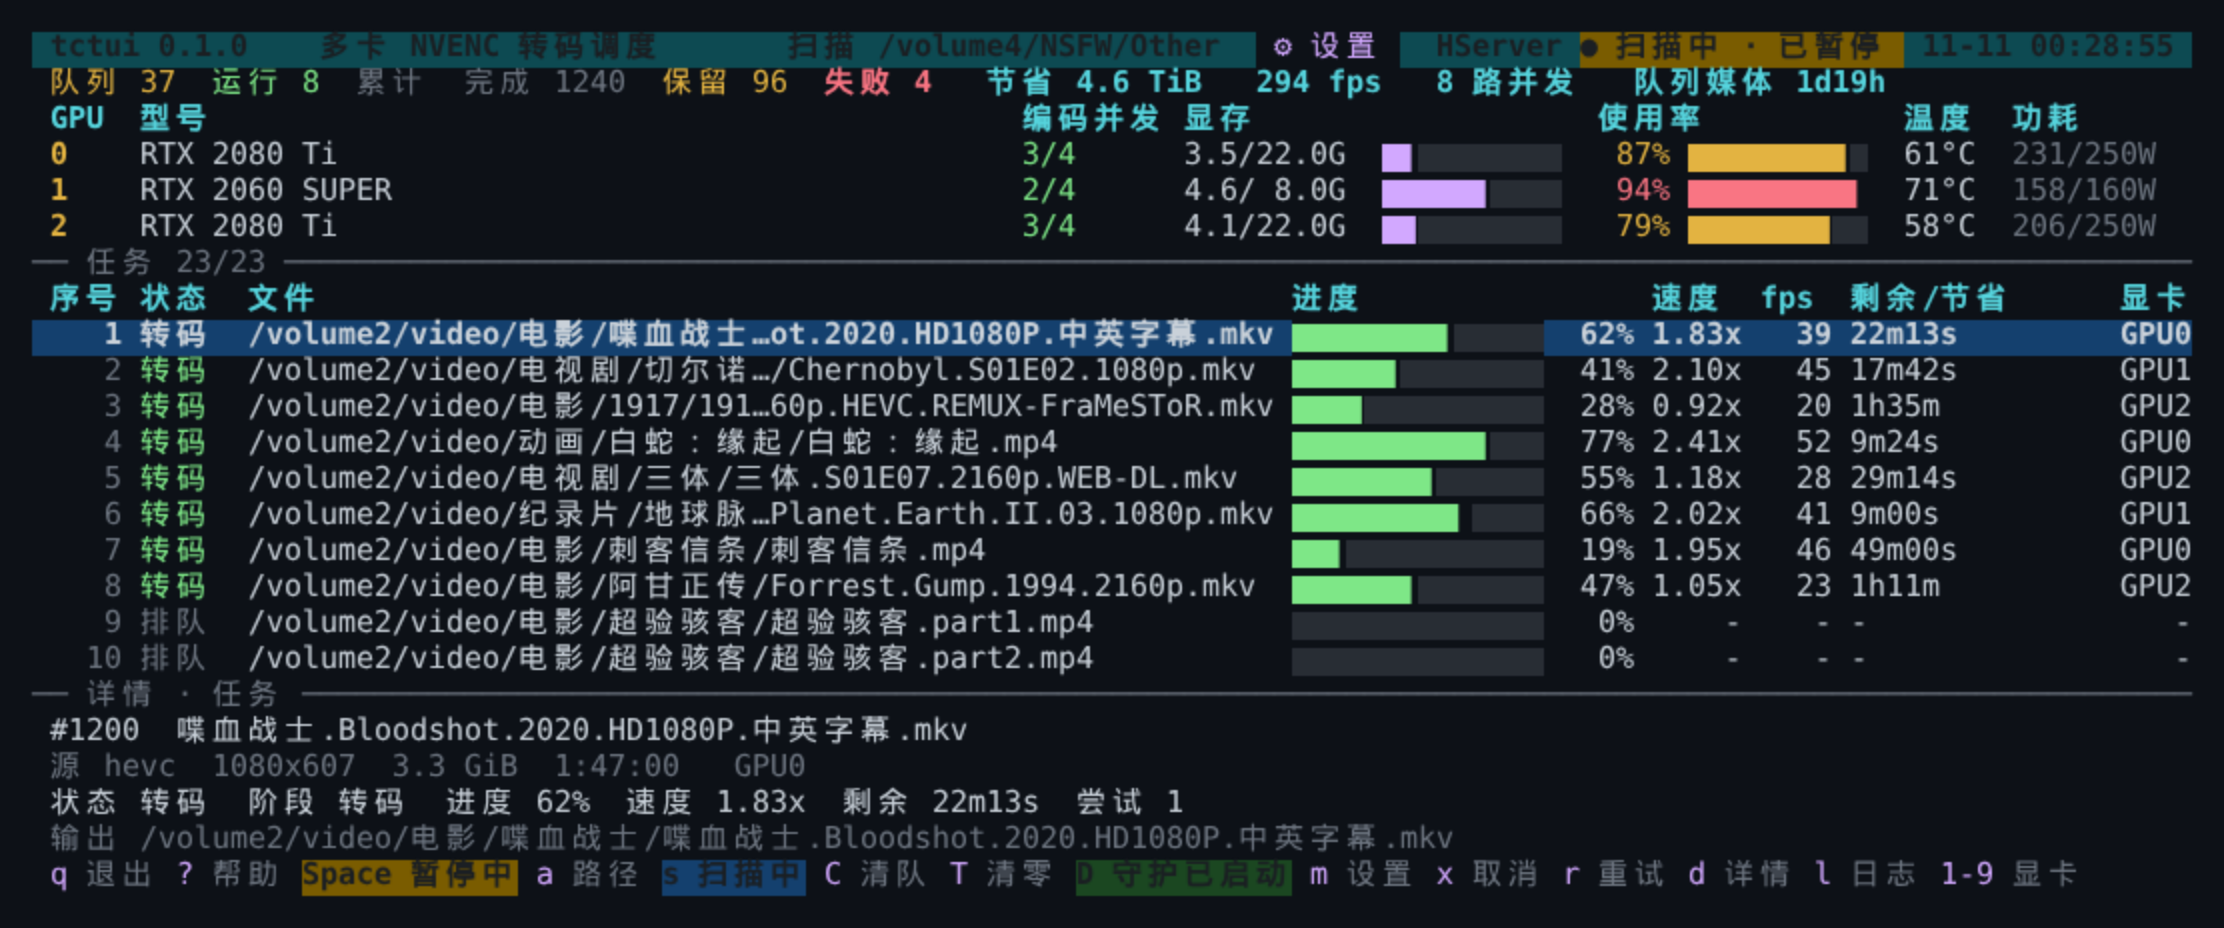
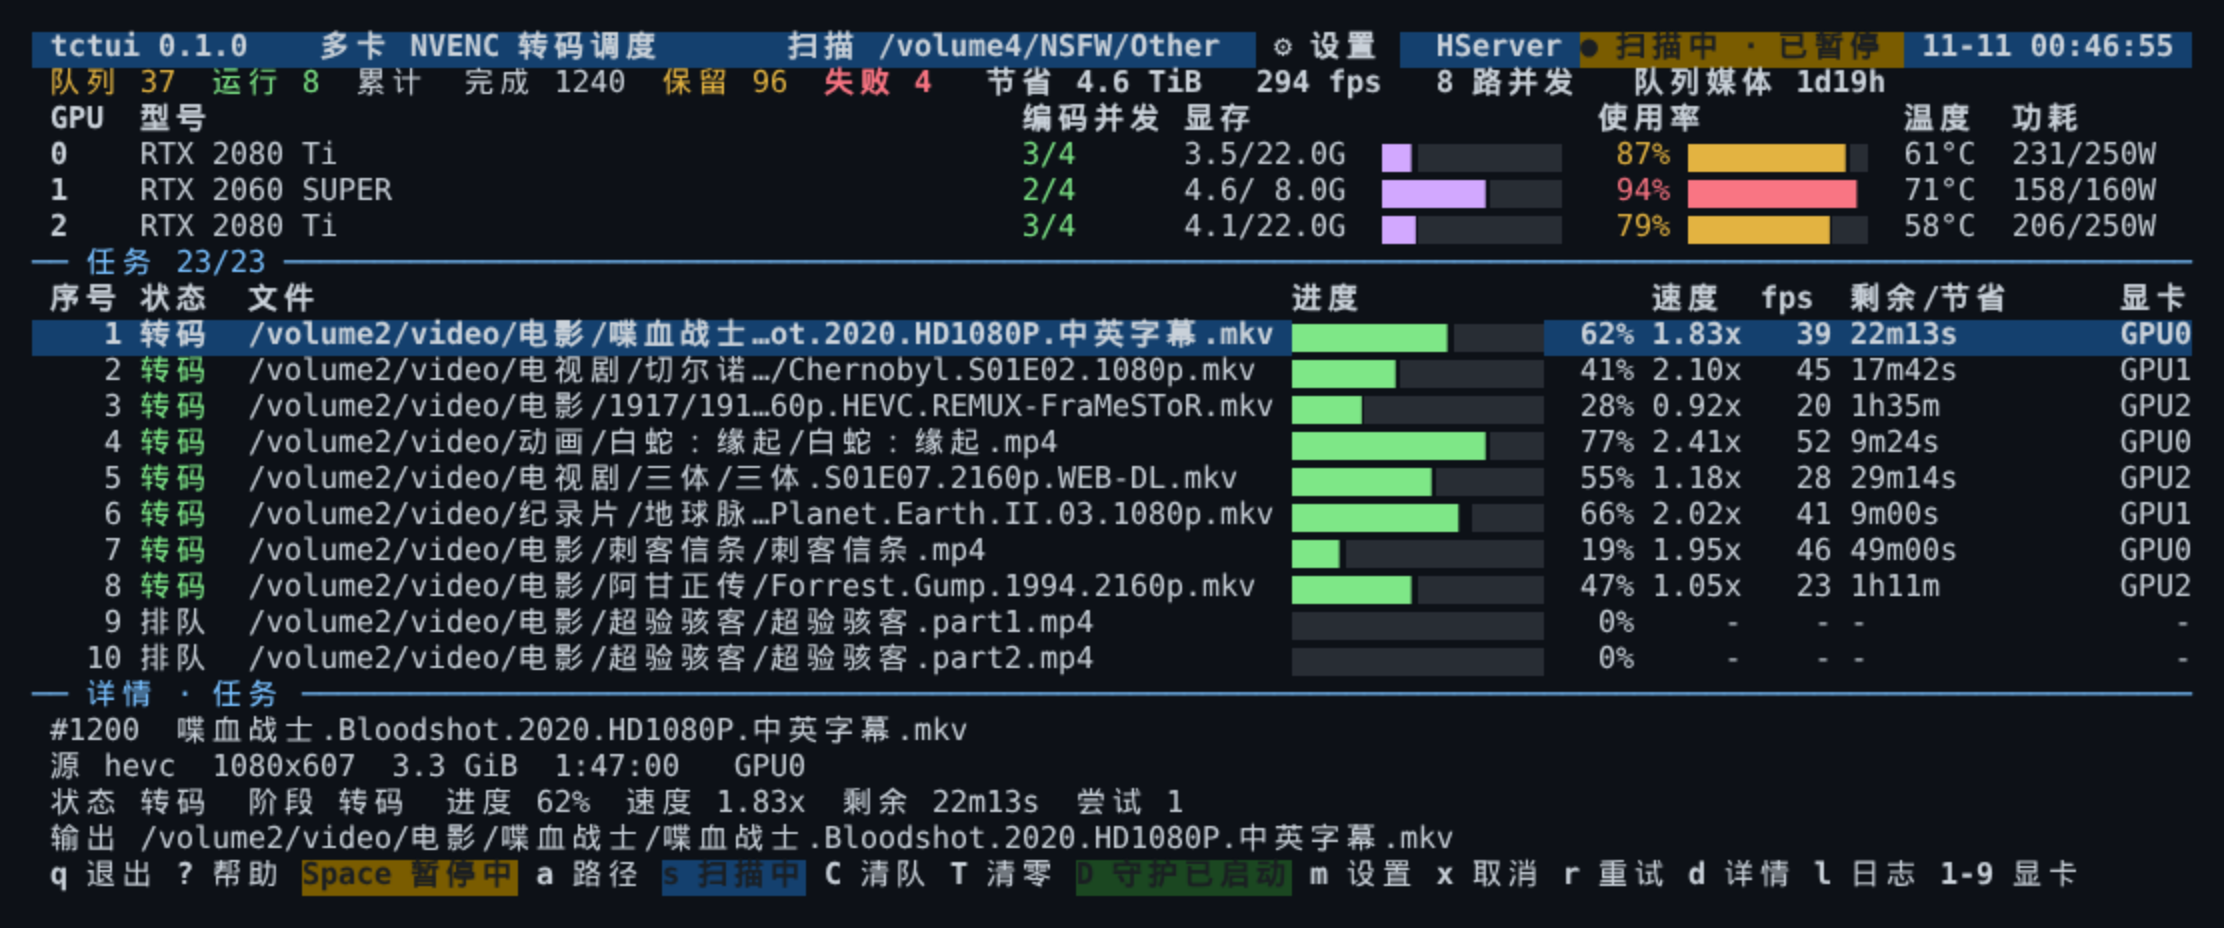
Use white text and blue separator lines

diff --git a/lib/tctui/ui.py b/lib/tctui/ui.py
@@ -27,15 +27,15 @@ from .db import DB
 
 STYLES = [
     ("norm", "default", "default", False),
-    ("title", "black", "cyan", True),
-    ("head", "cyan", "default", True),
-    ("dim", "brightblack", "default", False),
+    ("title", "white", "blue", True),
+    ("head", "white", "default", True),
+    ("dim", "white", "default", False),
     ("ok", "green", "default", False),
     ("warn", "yellow", "default", False),
     ("err", "red", "default", True),
     ("sel", "white", "blue", True),
-    ("accent", "magenta", "default", False),
-    ("gpu", "yellow", "default", True),
+    ("accent", "white", "default", True),
+    ("gpu", "white", "default", True),
     ("pause", "black", "yellow", True),
     ("progress", "green", "default", False),
     ("bar_bg", "brightblack", "default", False),
@@ -46,6 +46,8 @@ STYLES = [
     ("scan", "black", "blue", True),
     ("okbg", "black", "green", True),
     ("errbg", "white", "red", True),
+    ("line", "blue", "default", False),
+    ("magenta", "magenta", "default", False),
 ]
 S = {name: i for i, (name, _f, _b, _bold) in enumerate(STYLES)}
 
@@ -138,7 +140,7 @@ class Screen:
         for i in range(max(0, min(w, self.w - x))):
             self.cells[y][x + i] = (ch, attr)
 
-    def hline(self, y, x, w, ch="─", attr=S["dim"], left="", right="", title=""):
+    def hline(self, y, x, w, ch="─", attr=S["line"], left="", right="", title=""):
         self.fill(y, x, w, ch, attr)
         if left:
             self.put(y, x, left, attr)
@@ -710,7 +712,7 @@ class App:
         # fleet sparkline on the right
         spark = self._spark([float(p.get("fps") or 0) for p in v.fleet], 18)
         if spark and w > util.disp_width(info) + x + 30:
-            scr.put(y, w - util.disp_width(spark) - 2, spark, S["accent"])
+            scr.put(y, w - util.disp_width(spark) - 2, spark, S["magenta"])
         return y + 1
 
     def _spark(self, vals, width, floor=0.0):
@@ -803,7 +805,7 @@ class App:
             used = g["mem_used_mb"] or 0
             total = g["mem_total_mb"] or 1
             scr.put(y, mem_x, "%3.1f/%4.1fG" % (used / 1024.0, total / 1024.0), S["white"])
-            scr.bar(y, mem_x + 11, mem_bar_w, used / total, S["accent"], S["bar_bg"], "█", "░")
+            scr.bar(y, mem_x + 11, mem_bar_w, used / total, S["magenta"], S["bar_bg"], "█", "░")
             u = g.get("util") or 0
             scr.put(y, util_x, "%3d%%" % u, self._gpu_attr(u))
             scr.bar(y, util_x + 5, util_bar_w, u / 100.0, self._gpu_attr(u), S["bar_bg"], "█", "░")
@@ -841,7 +843,7 @@ class App:
         c_speed = c_pct + 5
         c_fps = c_speed + 6
         c_eta = c_fps + 5
-        scr.hline(y, 0, w, "─", S["dim"], title="任务 %d/%d" % (len(jobs), len(v.jobs)))
+        scr.hline(y, 0, w, "─", S["line"], title="任务 %d/%d" % (len(jobs), len(v.jobs)))
         y += 1
         head = util.pad_disp("序号", c_st - c_id)
         head += util.pad_disp("状态", c_st and 6)
@@ -925,7 +927,7 @@ class App:
     def draw_detail(self, scr, y, w, height):
         v = self.view
         job = self.selected()
-        scr.hline(y, 0, w, "─", S["dim"], title="详情 · %s" % ("日志" if self.show_log else "任务"))
+        scr.hline(y, 0, w, "─", S["line"], title="详情 · %s" % ("日志" if self.show_log else "任务"))
         y += 1
         if not job:
             scr.put(y, 2, "没有选中的任务", S["dim"])
@@ -972,7 +974,7 @@ class App:
             used += 1
         remain = height - 1 - used
         if remain >= 3 and not self.show_log and v.events:
-            scr.hline(y, 0, w, "─", S["dim"], title="最近事件")
+            scr.hline(y, 0, w, "─", S["line"], title="最近事件")
             y += 1
             for ev in v.events[:remain - 1]:
                 lvl = ev.get("level") or "info"
@@ -1124,7 +1126,7 @@ class App:
             kind, a, b = rows[idx]
             y = y0 + 2 + i
             if kind == "sec":
-                scr.hline(y, x0 + 2, bw - 4, "─", S["dim"], title=a)
+                scr.hline(y, x0 + 2, bw - 4, "─", S["line"], title=a)
             else:
                 scr.put(y, x0 + 3, util.pad_disp(a, 26), S["accent"], maxw=26)
                 scr.put(y, x0 + 30, util.truncate_disp(b, bw - 32), S["norm"])
